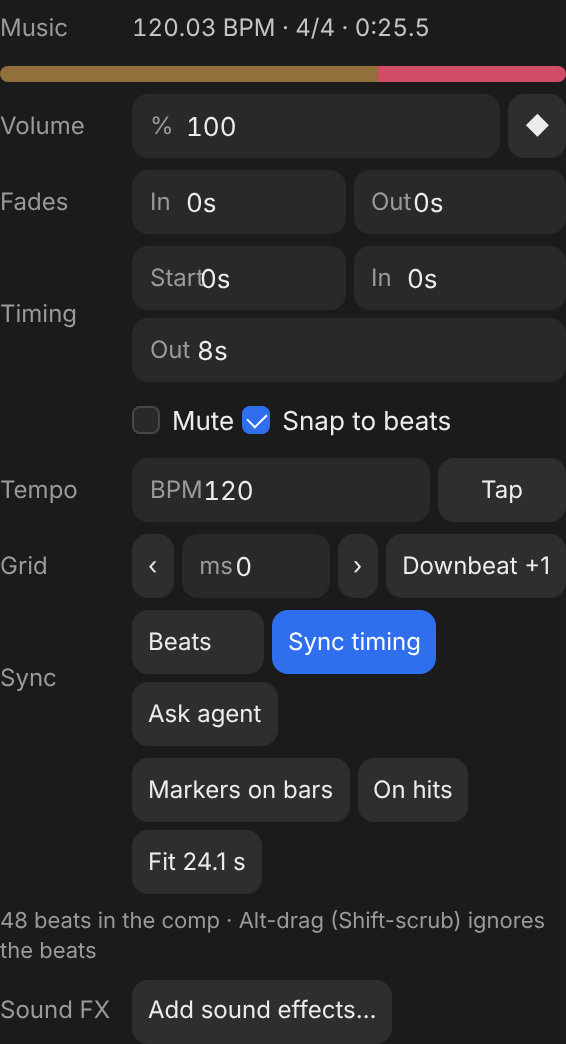
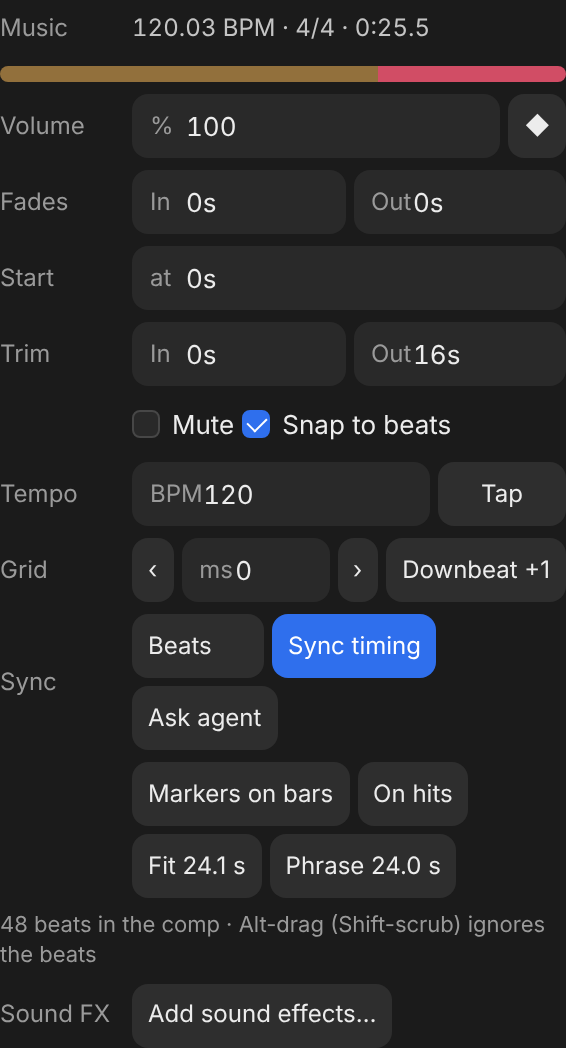
audio: phrase lengths beyond the current comp, per-move beat check, refreshed screenshots
Claude-Session: https://claude.ai/code/session_01BiSZZRQvgQtfScsdvoLPt6

diff --git a/src/audio/sync.ts b/src/audio/sync.ts
@@ -282,7 +282,8 @@ export function musicalLengths(m: Music, current: number): { full: number; phras
   const br = bars(m), bar = beatPeriod(m) * m.a.meter;
   const ends = br.map(t => t + bar);
   const full = Math.min(m.to, m.start + m.a.lastSound + 0.05);
-  const bar1 = ends.find(t => t >= current - 1e-3) ?? null;
-  const phrase = br.length ? ends.filter((_, i) => (i + 1) % 4 === 0).find(t => t >= current - 1e-3) ?? null : null;
+  // the next bar / 4-bar phrase end after the current length (a longer comp that ends musically)
+  const bar1 = ends.find(t => t > current + 0.05) ?? null;
+  const phrase = br.length ? ends.filter((_, i) => (i + 1) % 4 === 0).find(t => t > current + 0.05) ?? null : null;
   return { full, phrase, bar: bar1 };
 }
